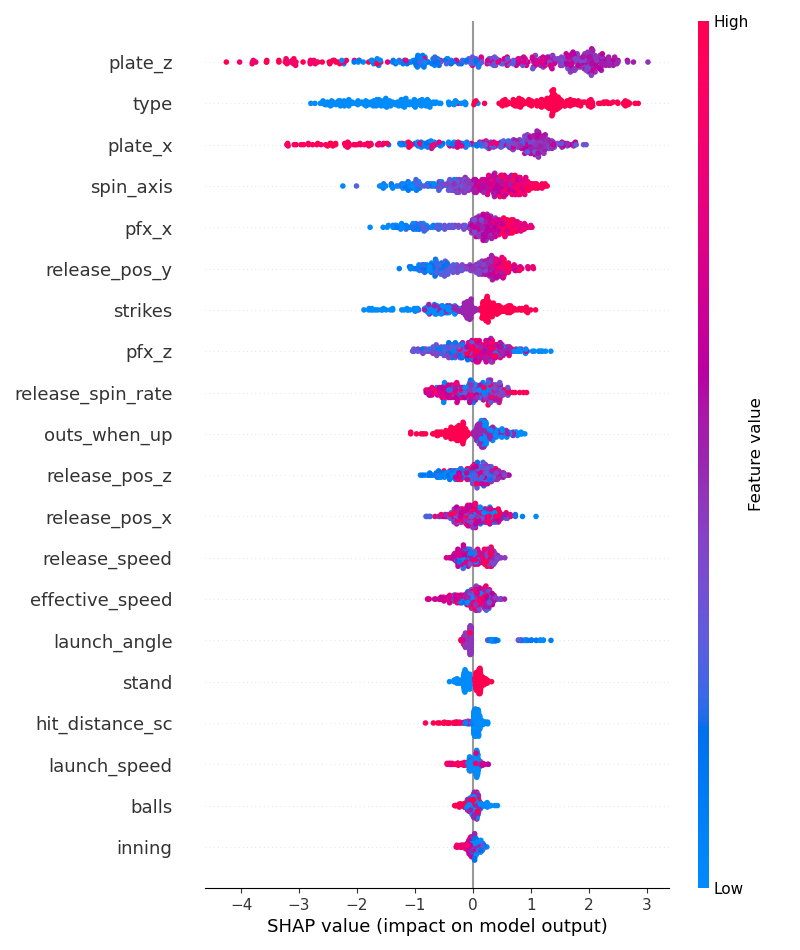
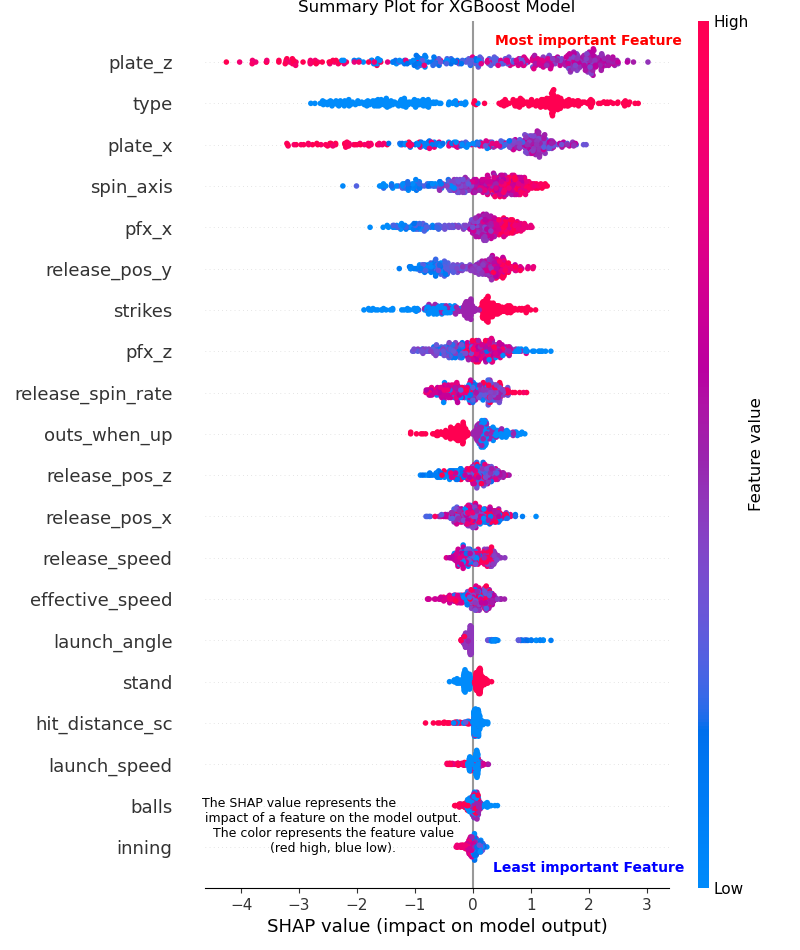
fixed a bug that would save figure before annotating

diff --git a/Final Project/shap_visualizations.py b/Final Project/shap_visualizations.py
@@ -26,16 +26,16 @@ def main():
 
     # Plot the SHAP values
     shap.summary_plot(shap_values, df, show=False)
-    plt.savefig('Visualizations/shap_summary.png')
     plt.title("Summary Plot for XGBoost Model")
     plt.annotate('The SHAP value represents the\n\
-        impact of a feature on the model output.\n\
-            The color represents the feature value\n\
-                (red high, blue low).', xy=(-3, 0.5), xytext=(0, 0), textcoords='offset points', ha='center', va='center', size=8)
+                 impact of a feature on the model output.\n\
+                 The color represents the feature value\n\
+                 (red high, blue low).', xy=(-3, 0.5), xytext=(0, 0), textcoords='offset points', ha='center', va='center', size=9)
     # Bold the top feature
-    plt.annotate('Most important Feature', xy=(2, 19.5), xytext=(0, 0), textcoords='offset points', ha='center', va='center', size=8, weight='bold')
-    plt.annotate('Least important Feature', xy=(2, -0.5), xytext=(0, 0), textcoords='offset points', ha='center', va='center', size=8, weight='bold')
+    plt.annotate('Most important Feature', xy=(2, 19.5), xytext=(0, 0), textcoords='offset points', ha='center', va='center', size=10, weight='bold', color='red')
+    plt.annotate('Least important Feature', xy=(2, -0.5), xytext=(0, 0), textcoords='offset points', ha='center', va='center', size=10, weight='bold', color='blue')
 
+    plt.savefig('Visualizations/shap_summary.png')
     print('Saved summary plot to Visualizations/shap_summary.png')
     plt.show()
 
